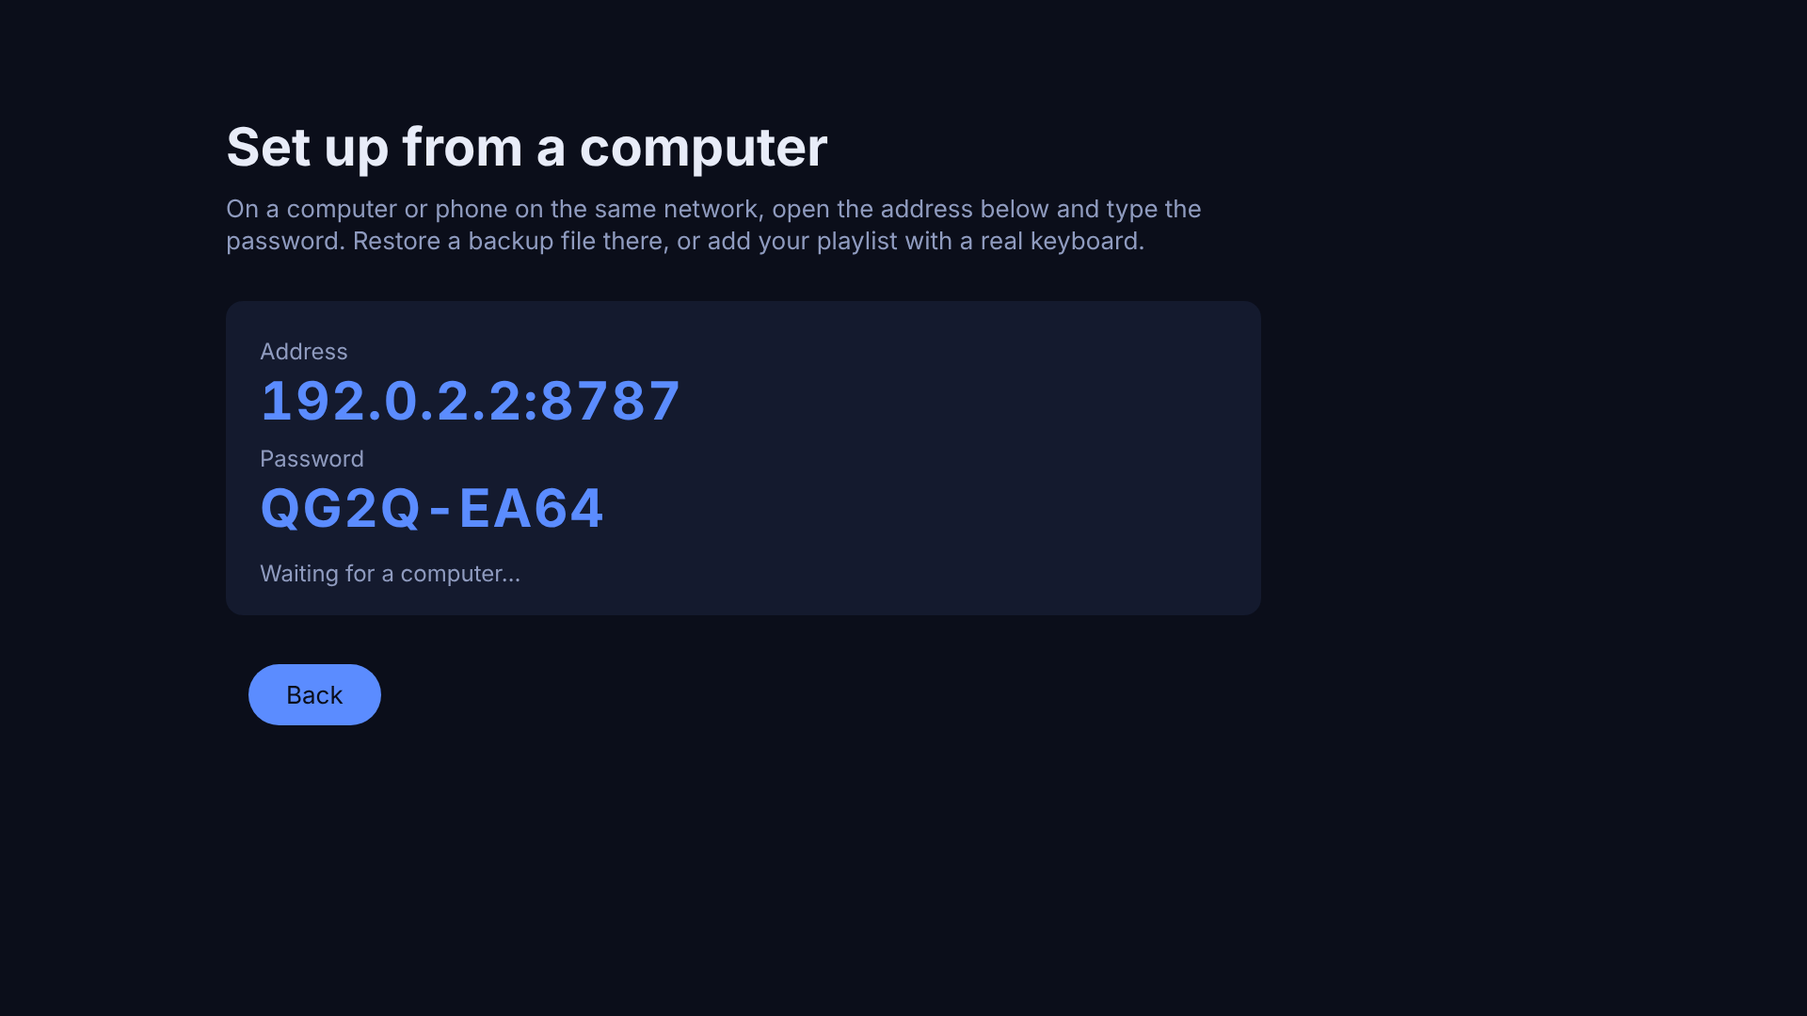
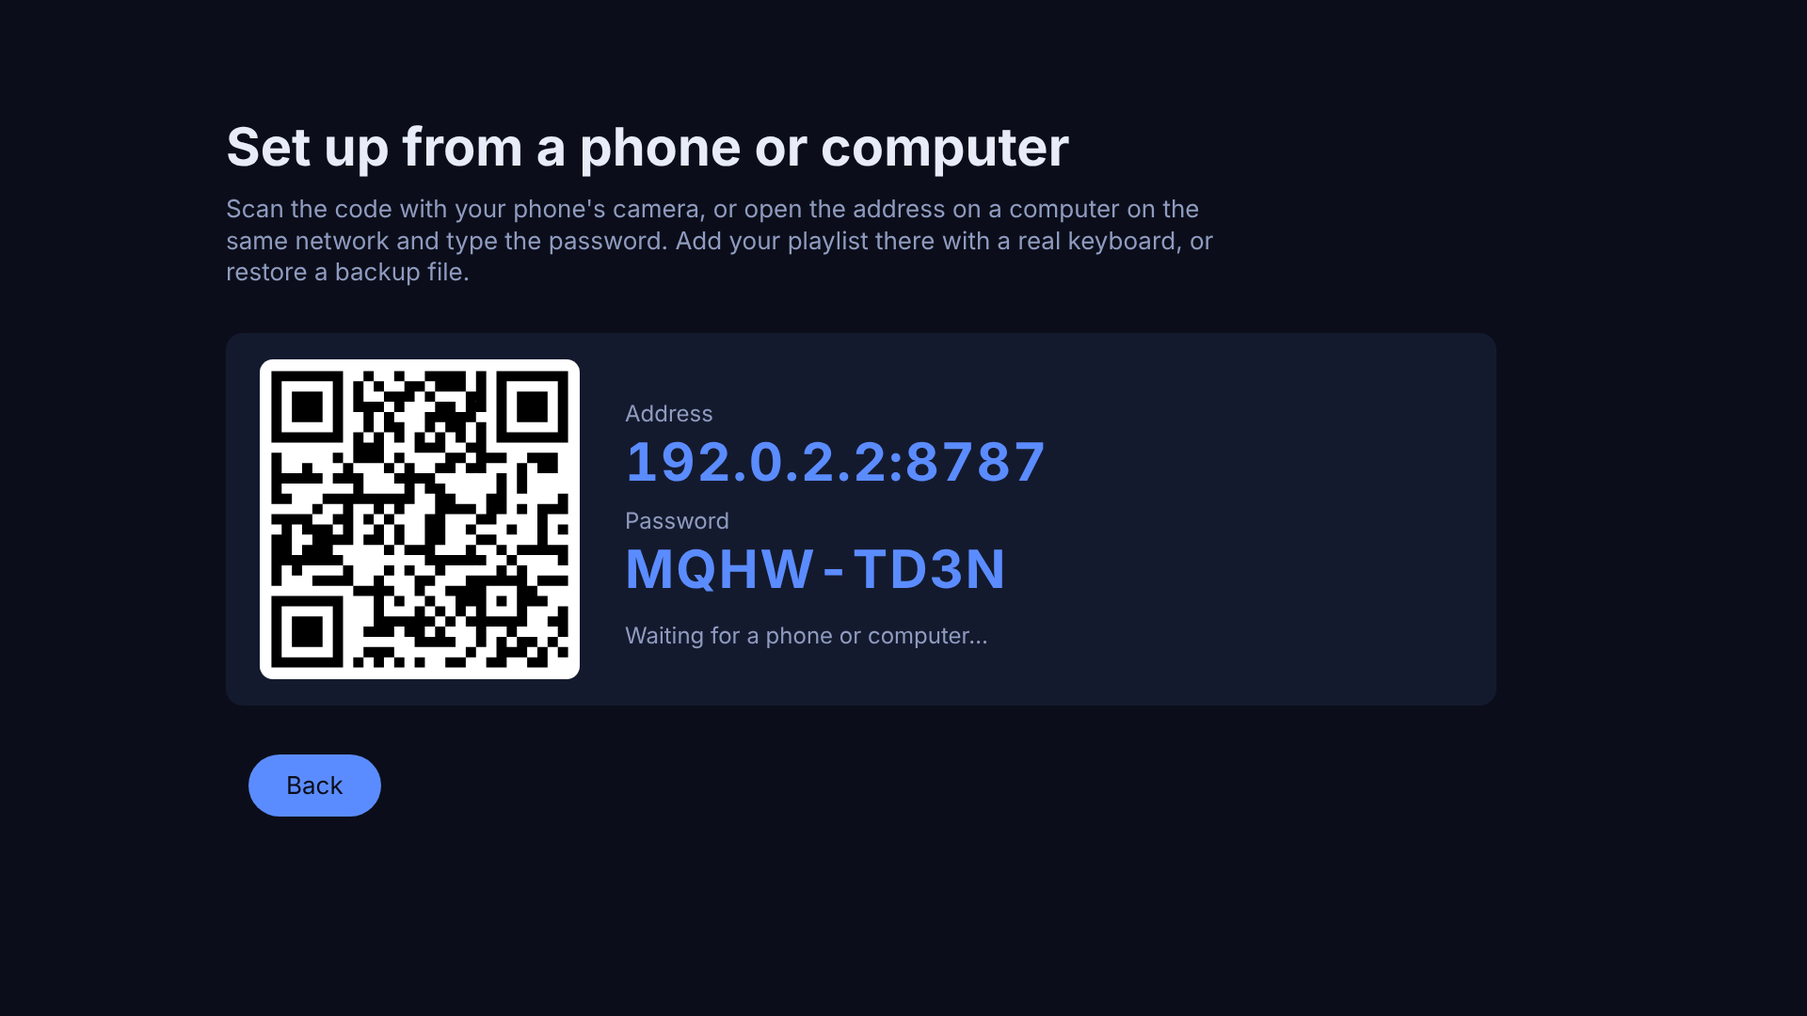
First screen: QR code to set up from a phone, buttons scroll into view
A TV with no playlist starts the web editor and shows a QR code beside Add your playlist; it opens the editor's welcome page signed in.  Adding the first playlist from the phone opens the set-up tour on the TV.  The setup buttons were below the fold on a 1080 screen; the focused row now scrolls into view.  One QR renderer (WebEdit.drawJoin) for the first screen, the phone or computer screen and the tour.

Changed region(s): [[0.125, 0.3361, 0.5938, 0.825], [0.125, 0.1222, 0.6562, 0.275]]

diff --git a/app/js/app.js b/app/js/app.js
@@ -32,7 +32,8 @@ var App = (function () {
 
     function render() {
       setupEl.innerHTML = '';
-      if (!target) { var wb = U.el('img', 'setupbrand'); wb.src = 'img/wordmark.png'; wb.alt = 'TiviBro'; setupEl.appendChild(wb); }
+      setupEl.classList.toggle('withjoin', !target);
+      if (!target) { var wb = U.el('img', 'setupbrand'); wb.src = 'img/wordmark.png'; wb.alt = 'TiviBro'; setupEl.appendChild(wb); joinPanel(); }
       setupEl.appendChild(U.el('h1', '', editing ? 'Edit playlist' : target === 'new' ? 'Add a playlist' : 'Add your playlist'));
       setupEl.appendChild(U.el('p', 'lead', 'Use your provider\'s Xtream Codes login or an M3U playlist address.  A Dispatcharr or other proxy address works with either.'));
       fields = [];
@@ -77,7 +78,7 @@ var App = (function () {
       fields.push({ el: go, kind: 'go' });
       var test = U.el('div', 'btn', 'Test connection'); setupEl.appendChild(test); fields.push({ el: test, kind: 'test' });
       var lg = U.el('div', 'btn', 'View log'); setupEl.appendChild(lg); fields.push({ el: lg, kind: 'log' });
-      if (!editing) { var rm = U.el('div', 'btn', 'Set up or restore from a computer'); setupEl.appendChild(rm); fields.push({ el: rm, kind: 'remote' }); }
+      if (!editing) { var rm = U.el('div', 'btn', 'Set up or restore from a phone or computer'); setupEl.appendChild(rm); fields.push({ el: rm, kind: 'remote' }); }
       if (canCancel) { var cancel = U.el('div', 'btn', 'Cancel'); setupEl.appendChild(cancel); fields.push({ el: cancel, kind: 'cancel' }); }
       msg = U.el('div', 'msg'); setupEl.appendChild(msg);
       // Magic Remote: click a field or button to use it.
@@ -86,7 +87,28 @@ var App = (function () {
       });
       paint();
     }
-    function paint() { fields.forEach(function (x, i) { x.el.classList.toggle('focus', i === f); }); }
+    function paint() {
+      fields.forEach(function (x, i) { x.el.classList.toggle('focus', i === f); });
+      // The buttons sit below the fold on a 1080 screen: keep the focused row in view.
+      var el = fields[f] && fields[f].el;
+      if (el && !setupEl.classList.contains('kb')) {
+        var bottom = el.offsetTop + el.offsetHeight + 60, view = setupEl.clientHeight;
+        setupEl.scrollTop = bottom > view ? bottom - view : 0;
+      }
+    }
+    /* A brand-new TV: a QR code beside the form, so the playlist can be typed on a phone (or a backup
+       restored) instead of with the remote.  The web editor starts only here, on a TV with no playlist. */
+    function joinPanel() {
+      var card = U.el('div', 'join'), qr = U.el('div', 'join-qr'), txt = U.el('div', 'join-txt');
+      card.appendChild(U.el('div', 'join-h', 'Easier on your phone'));
+      card.appendChild(U.el('div', 'join-p', 'Scan with your phone\'s camera to type your login there, or restore a backup.'));
+      card.appendChild(qr); card.appendChild(txt);
+      setupEl.appendChild(card);
+      function show(s) { if (setupEl.contains(card)) WebEdit.drawJoin(qr, txt, '', s, 'Or open the address on a computer.', 'A phone or computer is connected.  Finish there; this screen moves on by itself.'); }
+      txt.appendChild(U.el('div', 'remote-s', 'Starting…'));
+      WebEdit.onStatus = show;
+      (WebEdit.on ? Promise.resolve(WebEdit.status) : WebEdit.start()).then(show, function (e) { txt.innerHTML = ''; txt.appendChild(U.el('div', 'remote-s', 'The phone option is not available: ' + e.message)); });
+    }
     function kbFocus(row) {
       setupEl.classList.add('kb');
       // Scroll so the row sits near the top, well clear of the keyboard.
@@ -102,26 +124,18 @@ var App = (function () {
     // Fresh TV: start the web editor so a computer can restore a backup (logins included) or add a playlist.
     function remote() {
       setupEl.innerHTML = '';
-      setupEl.appendChild(U.el('h1', '', 'Set up from a computer'));
-      setupEl.appendChild(U.el('p', 'lead', 'On a computer or phone on the same network, open the address below and type the password.  Restore a backup file there, or add your playlist with a real keyboard.'));
-      var box = U.el('div', 'remote-box'); setupEl.appendChild(box);
+      setupEl.classList.remove('withjoin');
+      setupEl.appendChild(U.el('h1', '', 'Set up from a phone or computer'));
+      setupEl.appendChild(U.el('p', 'lead', 'Scan the code with your phone\'s camera, or open the address on a computer on the same network and type the password.  Add your playlist there with a real keyboard, or restore a backup file.'));
+      var box = U.el('div', 'remote-box withqr'), qrEl = U.el('div', 'join-qr'), info = U.el('div', ''); box.appendChild(qrEl); box.appendChild(info); setupEl.appendChild(box);
       var back = U.el('div', 'btn focus', 'Back'); setupEl.appendChild(back);
       back.addEventListener('click', function () { UI.press('back'); });
-      function show(s) {
-        box.innerHTML = '';
-        var addrs = WebEdit.addresses();
-        if (!addrs.length) { box.appendChild(U.el('div', 'msg err', 'No network address found.  Check that the TV is connected to your network.')); return; }
-        box.appendChild(U.el('div', 'remote-l', 'Address'));
-        addrs.forEach(function (a) { box.appendChild(U.el('div', 'remote-v', a.replace(/^http:\/\//, ''))); });
-        box.appendChild(U.el('div', 'remote-l', 'Password'));
-        box.appendChild(U.el('div', 'remote-v', WebEdit.password()));
-        box.appendChild(U.el('div', 'remote-s', s && s.clients ? 'A computer is connected.  Finish there; this screen moves on by itself.' : 'Waiting for a computer…'));
-      }
-      box.appendChild(U.el('div', 'remote-s', 'Starting the editor…'));
+      function show(s) { WebEdit.drawJoin(qrEl, info, '', s, 'Waiting for a phone or computer…', 'Connected.  Finish there; this screen moves on by itself.'); }
+      info.appendChild(U.el('div', 'remote-s', 'Starting the editor…'));
       WebEdit.onStatus = function (s) { if (setupEl.contains(box)) show(s); };
       (WebEdit.on ? Promise.resolve(WebEdit.status) : WebEdit.start()).then(show, function (e) { box.innerHTML = ''; box.appendChild(U.el('div', 'msg err', e.message)); });
       UI.setHandler(function (a) {
-        if (a === 'back' || a === 'ok') { WebEdit.onStatus = null; if (!Store.settings.playlists.length) WebEdit.stop(); setup(target); }
+        if (a === 'back' || a === 'ok') { WebEdit.onStatus = null; setup(target); }
         return true;
       });
     }
@@ -203,6 +217,7 @@ var App = (function () {
   }
 
   /* ---------- start ---------- */
+  var tourNext = false;     // the first playlist came from a phone or computer: show the set-up tour once it loads
   function start(data, fromCache) {
     Source.setTz(data.tz); Events.setProviderTz(data.tz);
     Library.set(data);
@@ -219,6 +234,7 @@ var App = (function () {
     // Guide loads after first paint so it never delays the channel list.
     setTimeout(function () { Epg.init(Library); }, fromCache ? 1500 : 300);
     Views.resume();
+    if (tourNext) { tourNext = false; setTimeout(function () { if (!Tour.isOpen) Tour.open({ first: true }); }, 400); }
   }
 
   /* Movies and Shows only appear when the provider actually offers them.  Small requests in the
@@ -337,7 +353,7 @@ var App = (function () {
     else if (wasPlaying) { wasPlaying = false; Player.resume(); }
   });
 
-  return { boot: boot, setup: setup, refresh: refresh, switchPlaylist: switchPlaylist };
+  return { boot: boot, setup: setup, refresh: refresh, switchPlaylist: switchPlaylist, tourNext: function () { tourNext = true; } };
 })();
 
 window.addEventListener('load', function () { App.boot(); });

diff --git a/app/js/webedit.js b/app/js/webedit.js
@@ -213,7 +213,7 @@ var WebEdit = (function () {
       if (clean(a.epg)) p.epgSources = [{ url: clean(a.epg), offset: 0 }];
       p.id = 'p' + Date.now().toString(36);
       return loadAndSave(p).then(function (data) {
-        if (!a.use && Store.settings.playlists.length === 1) a.use = true;   // first playlist on a fresh TV
+        if (!a.use && Store.settings.playlists.length === 1) { a.use = true; App.tourNext(); }   // first playlist on a fresh TV: then the set-up tour
         if (a.use) App.switchPlaylist(p.id);
         return { msg: 'Added "' + p.name + '" with ' + data.channels.length + ' channels' + (a.use ? '.  The TV switched to it.' : '.') };
       });
@@ -431,7 +431,26 @@ var WebEdit = (function () {
   function restart() { return on ? stop().then(start) : Promise.resolve(status); }
   function newPassword() { Store.settings.editorPass = generate(); Store.saveSettings(); return restart(); }
 
+  /* The QR code and address for a phone or computer (first screen, setup from a computer, the set-up
+     tour).  The code opens the editor already signed in, on page (Smart clean-up: 'tools'; empty for
+     the start page, which on a fresh TV is the welcome page for adding a playlist or restoring). */
+  function drawJoin(qr, txt, page, s, waiting, connected) {
+    qr.innerHTML = ''; txt.innerHTML = '';
+    var addrs = status && status.ips && status.ips.length ? status.ips.map(function (ip) { return 'http://' + ip + ':' + status.port; }) : [];
+    if (!addrs.length) { txt.appendChild(U.el('div', 'msg err', 'No network address found.  Check that the TV is connected to your network.')); return; }
+    try {
+      var q = qrcode(0, 'M'); q.addData(addrs[0] + '/#k=' + password() + (page ? '/' + page : '')); q.make();
+      qr.innerHTML = q.createSvgTag({ cellSize: 9, margin: 2, scalable: true });
+    } catch (e) { Log.warn('webedit', 'QR code: ' + e.message); }
+    txt.appendChild(U.el('div', 'remote-l', 'Address'));
+    addrs.forEach(function (a) { txt.appendChild(U.el('div', 'remote-v', a.replace(/^http:\/\//, ''))); });
+    txt.appendChild(U.el('div', 'remote-l', 'Password'));
+    txt.appendChild(U.el('div', 'remote-v', password()));
+    txt.appendChild(U.el('div', 'remote-s', s && s.clients ? connected : waiting));
+  }
+
   return {
+    drawJoin: drawJoin,
     start: start, stop: stop, restart: restart, resume: resume, newPassword: newPassword, password: password, port: port, PORTS: PORTS,
     snap: function (name) { return snap('named', name); },
     get on() { return on; }, get status() { return status; },

diff --git a/app/js/tour.js b/app/js/tour.js
@@ -307,21 +307,7 @@ var Tour = (function () {
     function paintB() { back.classList.toggle('focus', f === 0); done.classList.toggle('focus', f === 1); }
     back.addEventListener('click', function () { f = 0; UI.press('ok'); });
     done.addEventListener('click', function () { f = 1; UI.press('ok'); });
-    function show(s) {
-      qr.innerHTML = ''; txt.innerHTML = '';
-      var addrs = WebEdit.addresses();
-      if (!addrs.length) { txt.appendChild(U.el('div', 'msg err', 'No network address found.  Check that the TV is connected to your network.')); return; }
-      var url = addrs[0] + '/#k=' + WebEdit.password() + '/tools';
-      try {
-        var q = qrcode(0, 'M'); q.addData(url); q.make();
-        qr.innerHTML = q.createSvgTag({ cellSize: 9, margin: 2, scalable: true });
-      } catch (e) { Log.warn('tour', 'QR code: ' + e.message); }
-      txt.appendChild(U.el('div', 'remote-l', 'Address'));
-      addrs.forEach(function (a) { txt.appendChild(U.el('div', 'remote-v', a.replace(/^http:\/\//, ''))); });
-      txt.appendChild(U.el('div', 'remote-l', 'Password'));
-      txt.appendChild(U.el('div', 'remote-v', WebEdit.password()));
-      txt.appendChild(U.el('div', 'remote-s', s && s.clients ? 'Connected.  Send your changes there, then press Done.' : 'Waiting for a phone or computer…'));
-    }
+    function show(s) { WebEdit.drawJoin(qr, txt, 'tools', s, 'Waiting for a phone or computer…', 'Connected.  Send your changes there, then press Done.'); }
     txt.appendChild(U.el('div', 'remote-s', 'Starting the editor…'));
     WebEdit.onStatus = function (s) { if (st && st.remote) show(s); };
     (WebEdit.on ? Promise.resolve(WebEdit.status) : WebEdit.start()).then(show, function (e) { txt.innerHTML = ''; txt.appendChild(U.el('div', 'msg err', e.message)); });

diff --git a/app/css/app.css b/app/css/app.css
@@ -494,3 +494,17 @@ body.noguidenames .gch,body.noguidenames .guide-group{width:260px}
 .tour-tip:nth-child(2n){margin-right:0}
 .tour-tip b{display:block;font-size:24px;margin-bottom:2px}
 .tour-tip span{color:var(--muted);font-size:20px}
+
+/* first screen: the QR code for a phone, beside the form */
+.setup.withjoin .field{width:1000px}
+.setup.withjoin p.lead{max-width:1000px}
+.setup .join{position:absolute;top:120px;right:110px;width:470px;padding:30px 34px;background:var(--panel);border-radius:22px;border:2px solid var(--line)}
+.join-h{font-size:34px;font-weight:700;margin-bottom:6px}
+.join-p{color:var(--muted);font-size:22px;margin-bottom:20px}
+.join-qr{width:300px;height:300px;background:#fff;border-radius:14px;padding:10px;box-sizing:border-box}
+.join-qr svg{width:100%;height:100%;display:block}
+.join .remote-l{font-size:20px;margin-top:14px}
+.join .remote-v{font-size:32px;letter-spacing:1px}
+.join .remote-s{font-size:20px;margin-top:12px}
+.remote-box.withqr{display:flex;align-items:center;max-width:1350px}
+.remote-box.withqr .join-qr{flex:none;width:340px;height:340px;margin-right:48px}

diff --git a/docs/USER-GUIDE.md b/docs/USER-GUIDE.md
@@ -20,12 +20,12 @@ Everything TiviBro does, on the TV and from your computer.  Every picture here c
 
 A brand-new TiviBro opens on **Add your playlist**.  You have two ways in:
 
+- **Scan the QR code with your phone.**  It sits beside the form and opens the web editor on your phone, already signed in: type your login there with a real keyboard, or restore a backup from another TV.  The address and password are under the code, for a computer on the same network.  The TV moves on by itself when you finish, then shows the [set-up tour](#the-set-up-tour).  (**Set up or restore from a phone or computer** shows the same code on a screen of its own.)
 - **Type it on the TV.**  Pick Xtream Codes or M3U, then fill in the server, username and password (or the M3U address).  A guide address is optional.  **Test connection** checks everything before you save; **Connect** saves and loads your channels.
-- **Set up or restore from a computer.**  The TV shows an address and a password.  Open the address in any browser on the same network and either add your playlist with a real keyboard or restore a backup from another TV.  The TV moves on by itself when you finish.
 
 <p align="center">
   <a href="screenshots/tv-first-run.png"><img src="screenshots/tv-first-run.png" width="49%" alt="First-run screen"></a>
-  <a href="screenshots/tv-first-run-remote.png"><img src="screenshots/tv-first-run-remote.png" width="49%" alt="Set up from a computer"></a>
+  <a href="screenshots/tv-first-run-remote.png"><img src="screenshots/tv-first-run-remote.png" width="49%" alt="Set up from a phone or computer"></a>
 </p>
 
 <p align="center"><a href="media/firstrun.mp4"><img src="media/firstrun.gif" width="100%" alt="The first screen, and setting up from a computer"></a></p>
@@ -770,7 +770,7 @@ Cleaning up hundreds of groups with a TV remote is painful.  The web editor does
 2. The TV shows an address like `http://192.168.1.20:8787` and a password.
 3. Open the address on your computer or phone and type the password.  Dashes and capitals don't matter.
 
-The editor switches off every time TiviBro closes.  After five wrong passwords it locks for a minute.
+The editor switches off every time TiviBro closes.  On a brand-new TV with no playlist it starts by itself, for the QR code on the first screen.  After five wrong passwords it locks for a minute.
 
 **On a phone.**  The [set-up tour](#the-set-up-tour)'s QR code opens the editor signed in; any phone browser works with the address and password too.  On a phone the page name sits in the top bar (tap it for the list of pages), **Groups and channels** shows the groups first and a group's channels on their own screen (**‹ Groups** goes back), and **⋯** on a channel has Rename, Copy or move and Take out.  Dragging to reorder needs a computer.
 

diff --git a/docs/wiki/First-start.md b/docs/wiki/First-start.md
@@ -4,12 +4,12 @@
 
 A brand-new TiviBro opens on **Add your playlist**.  You have two ways in:
 
+- **Scan the QR code with your phone.**  It sits beside the form and opens the web editor on your phone, already signed in: type your login there with a real keyboard, or restore a backup from another TV.  The address and password are under the code, for a computer on the same network.  The TV moves on by itself when you finish, then shows the [set-up tour](The-set-up-tour).  (**Set up or restore from a phone or computer** shows the same code on a screen of its own.)
 - **Type it on the TV.**  Pick Xtream Codes or M3U, then fill in the server, username and password (or the M3U address).  A guide address is optional.  **Test connection** checks everything before you save; **Connect** saves and loads your channels.
-- **Set up or restore from a computer.**  The TV shows an address and a password.  Open the address in any browser on the same network and either add your playlist with a real keyboard or restore a backup from another TV.  The TV moves on by itself when you finish.
 
 <p align="center">
   <a href="https://github.com/ohmybahgosh/TiviBro/raw/main/docs/screenshots/tv-first-run.png"><img src="https://github.com/ohmybahgosh/TiviBro/raw/main/docs/screenshots/tv-first-run.png" width="49%" alt="First-run screen"></a>
-  <a href="https://github.com/ohmybahgosh/TiviBro/raw/main/docs/screenshots/tv-first-run-remote.png"><img src="https://github.com/ohmybahgosh/TiviBro/raw/main/docs/screenshots/tv-first-run-remote.png" width="49%" alt="Set up from a computer"></a>
+  <a href="https://github.com/ohmybahgosh/TiviBro/raw/main/docs/screenshots/tv-first-run-remote.png"><img src="https://github.com/ohmybahgosh/TiviBro/raw/main/docs/screenshots/tv-first-run-remote.png" width="49%" alt="Set up from a phone or computer"></a>
 </p>
 
 <p align="center"><a href="https://github.com/ohmybahgosh/TiviBro/raw/main/docs/media/firstrun.mp4"><img src="https://github.com/ohmybahgosh/TiviBro/raw/main/docs/media/firstrun.gif" width="100%" alt="The first screen, and setting up from a computer"></a></p>

diff --git a/SECURITY.md b/SECURITY.md
@@ -9,7 +9,7 @@ Helpful to include: what an attacker could do, how to reproduce it, the TiviBro 
 ## What TiviBro protects
 
 - **Provider logins stay on the TV.**  The web editor only ever sees server names, never usernames, passwords or stream links, and logs mask them.
-- **The web editor** is off whenever TiviBro starts, needs the password shown on the TV, locks for a minute after five wrong tries, and only listens on your local network.  Its control endpoints answer only to the TV itself.
+- **The web editor** is off whenever TiviBro starts (except on a brand-new TV with no playlist yet, for the setup QR code), needs the password shown on the TV, locks for a minute after five wrong tries, and only listens on your local network.  Its control endpoints answer only to the TV itself.
 - **Backups** are always encrypted (AES-256-GCM with a key from your passphrase) on the TV before they leave it.
 - **Releases** list the IPK's SHA-256 in the Homebrew Channel manifest and the release notes; the one-line installer checks it before installing.
 - **The logo library** downloads lists of logo addresses per country from tivibro.app and the logos from their own projects.  Nothing from your playlist is sent.

diff --git a/docs/wiki/Turning-on-the-web-editor.md b/docs/wiki/Turning-on-the-web-editor.md
@@ -12,7 +12,7 @@ Cleaning up hundreds of groups with a TV remote is painful.  The web editor does
 2. The TV shows an address like `http://192.168.1.20:8787` and a password.
 3. Open the address on your computer or phone and type the password.  Dashes and capitals don't matter.
 
-The editor switches off every time TiviBro closes.  After five wrong passwords it locks for a minute.
+The editor switches off every time TiviBro closes.  On a brand-new TV with no playlist it starts by itself, for the QR code on the first screen.  After five wrong passwords it locks for a minute.
 
 **On a phone.**  The [set-up tour](The-set-up-tour)'s QR code opens the editor signed in; any phone browser works with the address and password too.  On a phone the page name sits in the top bar (tap it for the list of pages), **Groups and channels** shows the groups first and a group's channels on their own screen (**‹ Groups** goes back), and **⋯** on a channel has Rename, Copy or move and Take out.  Dragging to reorder needs a computer.
 

diff --git a/README.md b/README.md
@@ -552,7 +552,7 @@ The [Release workflow](.github/workflows/release.yml) then runs the tests, build
 ## Privacy and security
 
 - Provider logins stay on the TV.  The web editor only ever sees server names, never usernames, passwords or stream links.
-- The web editor is off at every start, needs the password shown on the TV, and locks out after repeated wrong tries.
+- The web editor is off at every start (except on a brand-new TV with no playlist, for the setup QR code), needs the password shown on the TV, and locks out after repeated wrong tries.
 - Backups are always encrypted with a passphrase you choose.  Without it the file cannot be opened.
 - Logs mask usernames and passwords.
 - The logo library, when you turn it on, downloads lists of logo addresses from tivibro.app, one per country in your playlist, then each logo from its project.  Only the country is in the request: no channel names, logins or anything else from your playlist.

diff --git a/CHANGELOG.md b/CHANGELOG.md
@@ -2,6 +2,8 @@
 
 ## Unreleased
 
+- **First screen: a QR code for your phone.**  A brand-new TV shows a QR code beside **Add your playlist**.  Scan it and the web editor opens on your phone, signed in, to type the login with a real keyboard or restore a backup; the TV switches to the playlist and opens the set-up tour.  **Set up or restore from a phone or computer** shows the same code full size.  The web editor starts by itself only on a TV with no playlist yet.
+- First screen: the Connect, Test connection and other buttons were below the bottom of a 1080 screen; the screen now scrolls to whatever is focused.
 - The Homebrew Channel listing has screenshots and a formatted description (features, what to know, links), from `site/hb/description.html` on the website, and says it needs webOS 4 or newer.
 
 ## 0.6.0 (alpha 11, 2026-10-29)
